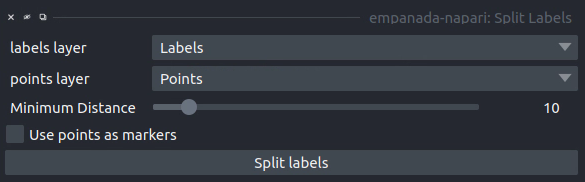
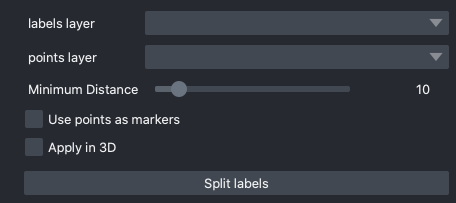
updated docs

diff --git a/docs/plugin/modules.rst b/docs/plugin/modules.rst
@@ -67,7 +67,7 @@ Parameters
 
 **image layer:** The napari image layer on which to run model inference.
 
-**Model:** Model to use for inference.
+**Model:** Model to use for inference. Default options are MitoNet_v1 and MitoNet_v1_mini.
 
 **Image Downsampling:** Downsampling factor to apply to the input image before running
 model inference. The returned segmentation will be interpolated to the original
@@ -91,6 +91,11 @@ segmentation.
 **Max objects per class:** The maximum number of objects that are allowed for any one
 of the classes being segmented by the model.
 
+**Tile size:** Size of image tiles in pixels. When set to 0, inference will be run on the entire image
+in a single pass. For non-zero tile sizes, the image will be partitioned into patches, model inference will be
+run independently on each, and the results are stitched together. By default, all tiles have a minimum overlap of
+128 pixels with their neighbors.
+
 **Batch Mode:** If checked, the selected model will be run independently on each
 xy slice in a stack of images. This can be used, for example, to run inference on
 all images in a folder by loading them with the "Open Folder..." option.
@@ -101,6 +106,12 @@ on the workstation, then this parameter is ignored.
 **Use quantized model:** Whether to use a quantized version of the segmentation model.
 The quantized model only runs on CPU but uses ~4x less memory and runs 20-50% faster (depending
 on the model architecture). Results may be 1-2% worse than using the non-quantized version.
+Quantized models do not work on all operating systems and hardware configurations. Currently, 
+they are not supported by Apple Silicon.
+
+**Confine to viewport:** When checked, model inference will only be performed on the area of the image 
+currently visible in the Napari viewing window. This makes it possible to navigate large images and selectively
+test model performance within a 2D ROI. This option will return an error if run on xz slices of a 3D image.  
 
 **Output to layer:** If checked, the output of the model will be inserted into the given
 output layer (next argument). This argument is incompatible with Batch mode and will raise
@@ -133,17 +144,15 @@ General Parameters
 
 **model:** Model to use for inference.
 
-**Zarr Directory (optional):** Path at which to store segmentation results in zarr
-format. Writing results to disk can help avoid out-of-memory issues when running
-inference on large volumes. Napari natively supports reading zarr files.
-
 **Use GPU:** Whether to use system GPU for running inference. The box will be
 check by default if a GPU is found on your system. If no GPU is detected, then
 this parameter is ignored.
 
 **Use quantized model:** Whether to use a quantized version of the segmentation model.
 The quantized model only runs on CPU but uses ~4x less memory and runs 20-50% faster (depending
-on the model architecture). Results may be 1-2% worse than using the non-quantized version.
+on the model architecture). Results may be 1-2% worse than using the non-quantized version. 
+Quantized models do not work on all operating systems and hardware configurations. Currently, 
+they are not supported by Apple Silicon.
 
 **Multi GPU:** If the workstation is equipped with more than 1 GPU, inference
 can be distributed across them. See note in :ref:`plugin/best-practice:Inference Best Practices`.
@@ -185,7 +194,7 @@ object in the final segmentation. (Filters out big "pancakes").
 **Max objects per class in 3D:** The maximum number of objects that are allowed for any one
 of the classes being segmented by the model within a volume.
 
-**Inference plane:** Plane from which to extract and segmentat slices. Choice of xy, xz, or yz.
+**Inference plane:** Plane from which to extract and segment slices. Choice of xy, xz, or yz.
 
 Ortho-plane Parameters (Optional)
 ^^^^^^^^^^^^^^^^^^^^^^^^^^^^^^^^^^^^
@@ -203,6 +212,16 @@ must be labeled in order to end up in the consensus segmentation.
 **Permit detections found in 1 stack into consensus:** Whether to allow objects
 that appear in only a single stack (for example an object only segmented in xy)
 through to the ortho-plane consensus segmentation.
+
+Ortho-plane Parameters (Optional)
+^^^^^^^^^^^^^^^^^^^^^^^^^^^^^^^^^^^^
+
+**Directory:** Path at which to store segmentation results in zarr
+format. Writing results to disk can help avoid out-of-memory issues when running
+inference on large volumes. Napari natively supports reading zarr files.
+
+**Chunk size:** Chunk size to use for the Zarr file. Can be an integer for cube-shaped
+chunks or a comma separated list of 3 integers to other chunk sizes. 
 
 Pick training patches
 ==================================
@@ -443,27 +462,57 @@ Parameters
 
 **Model name:** Name of the model to get information about. 
   
-Merge and Delete labels
+Merge labels
 =============================
 
 .. image:: ../_static/merge_labels.png
   :align: center
   :width: 500px
-  :alt: Dialog for the merge and delete labels module.
+  :alt: Dialog for the merge labels module.
 
 Results
 ^^^^^^^^^^^^^
 
-In-place merges or deletes selected labels from a labels layer.
+In-place merges selected labels from a labels layer.
 
 Parameters
 ^^^^^^^^^^^^^^^^
 
-The parameters for the Merge and Delete labels modules are the same.
+**labels layer:** The napari labels layer on which to apply operations.
 
-**labels layer:** The napari labels layer for which to apply operations.
+**points layer:** A napari points layer used to select instances for merging.
 
-**points layers:** The napari points layer used to select instances for merging/deletion.
+**shapes layer:** An optional napari shapes layer used to select instances for merging/deletion. Currently,
+support "line" and "path" shapes. Any instance ids intersected by the lines are merged. Arbitrary combinations
+of shapes and points are allowed.
+
+**Apply in 3D:** Whether to apply the merge operation within the an entire 3D labelmap. Generally should 
+be checked when proofreading 3D segmentations and unchecked when proofreading a stack of 2D segmentations
+(for example, leave it unchecked when proofreading the output of 2D Batch Mode inference).  
+
+Delete labels
+=============================
+
+.. image:: ../_static/delete_labels.png
+  :align: center
+  :width: 500px
+  :alt: Dialog for the delete labels module.
+
+Results
+^^^^^^^^^^^^^
+
+In-place deletes selected labels from a labels layer.
+
+Parameters
+^^^^^^^^^^^^^^^^
+
+**labels layer:** The napari labels layer on which to apply operations.
+
+**points layer:** A napari points layer used to select instances for deletion.
+
+**Apply in 3D:** Whether to apply the delete operation within the an entire 3D labelmap. Generally should 
+be checked when proofreading 3D segmentations and unchecked when proofreading a stack of 2D segmentations
+(for example, leave it unchecked when proofreading the output of 2D Batch Mode inference).  
 
 Split labels
 =============================
@@ -495,6 +544,9 @@ a pixel/voxel to be included in a watershed marker.
 **Use points as markers:** If checked, minimum distance will be ignored and the
 watershed transform will treat each point as a marker.
 
+**Apply in 3D:** Whether to apply the split operation within the an entire 3D labelmap. Generally should 
+be checked when proofreading 3D segmentations and unchecked when proofreading a stack of 2D segmentations
+(for example, leave it unchecked when proofreading the output of 2D Batch Mode inference).  
 
 Jump to label
 =============================

diff --git a/docs/plugin/tutorials.rst b/docs/plugin/tutorials.rst
@@ -88,7 +88,7 @@ Using Batch Mode
   :align: left
   :width: 50%
 
-Batch mode let's you run inference with a given configuration on all images in the
+Batch mode lets you run inference with a given configuration on all images in the
 stack. Running with the options shown on left will create 5 segmentation layers (i.e.,
 one for each image).
 
@@ -98,10 +98,9 @@ Proofreading in 2D
 
 To correct mistakes, use the proofreading tools to paint, erase, merge, split, and delete labels.
 
-Let's look at the second image in the stack. First, select the correct labels layer in the left hand panel
-(**b**). Hover the cursor over the label you'd like to edit and make note of the label ID
-in the bottom left corner of the napari window (**c**). Type this ID in the label field shown in
-panel (**a**). Paint and erase options are denoted by the blue and red arrows in **a**, respectively.
+Let's look at the second image in the stack. First, select the correct labels layer in the lower left hand panel
+(**b**). Next, select the dropper tool, denoted by the green arrow in panel **a**, and click on the label you'd like to edit. 
+Paint and erase tools are denoted by the blue and red arrows in **a**, respectively. Simply click and drag to make corrections.
 
 .. image:: ../_static/paint_erase.png
   :align: center
@@ -112,7 +111,7 @@ Place points by clicking the circle with a plus sign (panel **a**) and clicking 
 The model output is shown in the top left corner of the figure below. After placing points on the
 yellow and purple labels, click the **Merge labels** button. Make sure that the labels layer matches
 the layer you're working on (seen panel **b** in the previous figure), if not you'll get an "out-of-bounds"
-error.
+error. Also, always leave the Apply 3D button unchecked when proofreading in 2D.
 
 This overmerges the two instances. To split them, place a single point anywhere on the yellow label and
 click the **Split labels** button (again making sure the labels layer selected is correct). Adjusting the
@@ -242,11 +241,12 @@ Turn on and off the stack inference results and compare them to ortho-plane resu
 Proofreading in 3D
 """""""""""""""""""""""""
 
-The proofreading operations for 3D data work identically to those for `Proofreading in 2D`_.
+The proofreading operations for 3D data work identically to those for `Proofreading in 2D`_. 
+Simply check the "Apply in 3D" option to merge, split, and delete labels throughout the entire volume.
 
 .. note::
 
-  If you chose to save the segmentations as zarr the proofreading functions
+  If you chose to save the segmentations as zarr the split proofreading function
   will not work. We plan to address this gap in the future.
 
 Exporting 3D

diff --git a/docs/empanada-napari.rst b/docs/empanada-napari.rst
@@ -1,4 +1,4 @@
-empanada-napari v0.2.0
+empanada-napari
 ************************
 
 The empanada-napari plugin is built to democratize deep learning image segmentation
